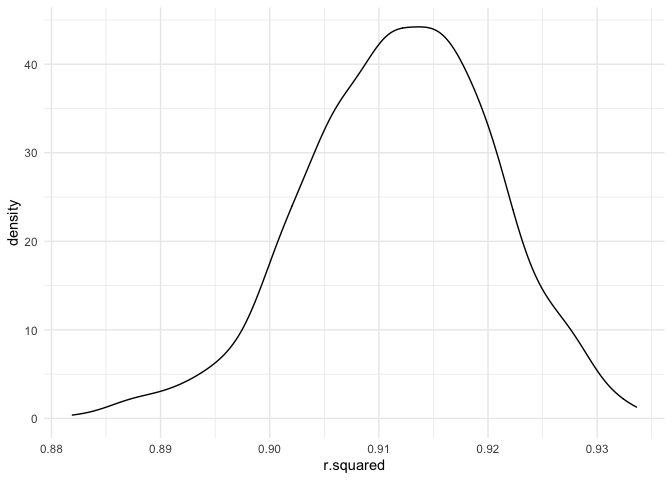
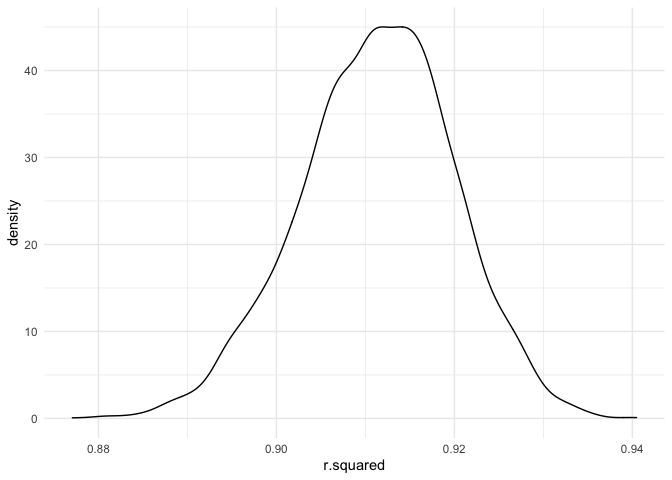
added quantiles, organized problem 2

diff --git a/p8105_hw6_kdh2140.md b/p8105_hw6_kdh2140.md
@@ -236,6 +236,9 @@ broom::tidy()
     ## 2 wtgain         11.7      0.679      17.2 2.84e-64
     ## 3 fincome         3.13     0.286      10.9 1.96e-27
 
+All models appear to have a significant relationship between predictors
+and outcome.
+
 #### Check residual plots
 
 ``` r
@@ -255,8 +258,8 @@ bwt_df %>%
 
 ![](p8105_hw6_kdh2140_files/figure-gfm/resid_bwt-2.png)<!-- -->
 
-With both predictors, residuals appear randomly scattered around the 0
-line.
+With both predictors for model 3 (wtgain, fincome), residuals appear
+randomly scattered around the 0 line.
 
 #### Cross validation
 
@@ -312,6 +315,10 @@ cv_df %>%
 
 ![](p8105_hw6_kdh2140_files/figure-gfm/unnamed-chunk-2-1.png)<!-- -->
 
+Graphically, model 2 (interaction model) appears to have the lowest
+average root mean square error of all three models, with model 1 only
+slightly higher and model 3 much higher.
+
 #### Calculate average RMSE
 
 ``` r
@@ -327,8 +334,6 @@ cv_df %>%
   summarize(avg_rmse = mean(rmse))
 ```
 
-    ## `summarise()` ungrouping output (override with `.groups` argument)
-
     ## # A tibble: 3 x 2
     ##   model avg_rmse
     ##   <chr>    <dbl>
@@ -336,7 +341,10 @@ cv_df %>%
     ## 2 fit2      289.
     ## 3 fit3      491.
 
-#### Extra code
+The above table reports average root mean squared error, which confirms
+the above interpretations.
+
+#### Visualizations
 
 ``` r
 bwt_df %>% 
@@ -347,8 +355,6 @@ ggplot(aes(x = wtgain, y = bwt)) +
               color = fincome))
 ```
 
-    ## `geom_smooth()` using formula 'y ~ x'
-
 ![](p8105_hw6_kdh2140_files/figure-gfm/unnamed-chunk-4-1.png)<!-- -->
 
 ``` r
@@ -358,22 +364,10 @@ ggplot(aes(x = fincome, y = bwt)) +
   geom_smooth(method = "lm")
 ```
 
-    ## `geom_smooth()` using formula 'y ~ x'
-
 ![](p8105_hw6_kdh2140_files/figure-gfm/unnamed-chunk-4-2.png)<!-- -->
 
-``` r
-bwt_df %>% 
-  add_predictions(fit) %>% 
-  ggplot(aes(x = wtgain, y = bwt)) + 
-  geom_point() +
-  geom_line(aes(y = pred), color = "blue")
-```
-
-model\_fit = lm(bwt \~ gaweeks, data = baby\_df)
-
-baby\_df %\>% modelr::add\_residuals(model\_fit) %\>% ggplot(aes(x =
-gaweeks, y = resid)) + geom\_point()
+The above plots depict changes in outcome by predictor for model 3
+(wtgain, fincome)
 
 ## Problem 3
 
@@ -393,63 +387,61 @@ weather_df =
   select(name, id, everything())
 ```
 
-#### R- squared
-
-NEED TO CHANGE TO 5000
+#### R- squared Bootstrap Distributions
 
 ``` r
-# Run the bootstrap to calculate mean r - square
-weather_df %>% 
-  bootstrap(1000, id = "strap_number") %>% 
+# Run the bootstrap to create r - squared dataframe
+boot_rsq = 
+  weather_df %>% 
+    bootstrap(5000, id = "strap_number") %>% 
+    
+    # Run the linear model across the bootstrap observations
+    mutate(
+      models = map(.x = strap, ~lm(tmax ~ tmin, data = .x)), 
+      results = map(models, broom::glance)) %>% 
+    
+    # Tidy data
+    select(strap_number, results) %>% 
+    unnest(results) %>% 
+    select(strap_number, r.squared) 
   
-  # Run the linear model across the bootstrap observations
-  mutate(
-    models = map(.x = strap, ~lm(tmax ~ tmin, data = .x)), 
-    results = map(models, broom::glance)) %>% 
-  
-  # Tidy data
-  select(strap_number, results) %>% 
-  unnest(results) %>% 
-  select(strap_number, r.squared) %>% 
-  
-  # Calculate average r-squared value for bootstrap observations
+
+# Calculate average r-squared value for bootstrap observations
+boot_rsq %>%   
   summarize(mean_r_square = mean(r.squared))
 ```
 
     ## # A tibble: 1 x 1
     ##   mean_r_square
     ##           <dbl>
-    ## 1         0.912
+    ## 1         0.911
 
-interpret
+The mean r squared value over 5000 bootstrap samples is equal to
+\~0.911. About 91.1% of the variance in the maximum temperature is
+explained by the minimum temperature in this linear regression.
 
 ``` r
-# Run the bootstrap to create r - squared plot
-weather_df %>% 
-  bootstrap(1000, id = "strap_number") %>% 
-  
-  # Run the linear model across the bootstrap observations
-  mutate(
-    models = map(.x = strap, ~lm(tmax ~ tmin, data = .x)), 
-    results = map(models, broom::glance)) %>% 
-  
-  # Tidy data
-  select(strap_number, results) %>% 
-  unnest(results) %>% 
-  select(strap_number, r.squared) %>% 
-  
-  # Create a distribution plot of r.squared values
+# Create a distribution plot of r.squared values
+boot_rsq %>% 
   ggplot(aes(x = r.squared)) +
   geom_density() 
 ```
 
-![](p8105_hw6_kdh2140_files/figure-gfm/unnamed-chunk-8-1.png)<!-- -->
+![](p8105_hw6_kdh2140_files/figure-gfm/unnamed-chunk-7-1.png)<!-- -->
 
 ``` r
-######identify the 2.5% and 97.5% quantiles to provide a 95% confidence interval 
+# Obtaining confidence intervals
+ci_lower_r = quantile(pull(boot_rsq, r.squared), 0.025)
+ci_upper_r = quantile(pull(boot_rsq, r.squared), 0.975)
 ```
 
-#### log(beta)
+The above plot depicts the distribution of r-squared values over 5000
+bootstrap samples.
+
+Quantile estimates for r-squared are 0.8936977 , 0.9274807. We are 95%
+confident that the true r-squared falls between \~89.37% and \~92.74%.
+
+#### Log(beta) Bootstrap Distributions
 
 ``` r
 ### Write a function to obtain log_beta value for each observation
@@ -479,20 +471,22 @@ obtain_log = function(df) {
 
 ### Run the bootstrap to calculate mean log_betas
 
-weather_df %>% 
-  bootstrap(1000, id = "strap_number") %>% 
-  
-  # Run the linear model across the bootstrap observations
-  mutate(
-    models = map(.x = strap, ~obtain_log(.x))) %>% 
-  
-  # Tidy data
-  select(strap_number, models) %>% 
-  unnest(models) %>% 
-  select(strap_number, log_betas) %>% 
-  
-  # Calculate average log_betas value for bootstrap observations
-  summarize(mean_log_betas = mean(log_betas))
+boot_log =
+  weather_df %>% 
+    bootstrap(5000, id = "strap_number") %>% 
+    
+    # Run the linear model across the bootstrap observations
+    mutate(
+      models = map(.x = strap, ~obtain_log(.x))) %>% 
+    
+    # Tidy data
+    select(strap_number, models) %>% 
+    unnest(models) %>% 
+    select(strap_number, log_betas) 
+
+# Calculate average log_betas value for bootstrap observations
+boot_log %>% 
+    summarize(mean_log_betas = mean(log_betas))
 ```
 
     ## # A tibble: 1 x 1
@@ -500,29 +494,26 @@ weather_df %>%
     ##            <dbl>
     ## 1           2.01
 
-interpret
+The average value of the log of beta\_0 by beta\_1 over 5000 bootstraps
+is roughly equal to 2.01.
 
 ``` r
-# Run the bootstrap to create log_beta plot
-weather_df %>% 
-  bootstrap(1000, id = "strap_number") %>% 
-  
-  # Run the linear model across the bootstrap observations
-  mutate(
-    models = map(.x = strap, ~obtain_log(.x))) %>% 
-  
-  # Tidy data
-  select(strap_number, models) %>% 
-  unnest(models) %>% 
-  select(strap_number, log_betas) %>% 
-  
-  # Create a distribution plot of r.squared values
+# Create a distribution plot of log_beta values
+boot_log %>% 
   ggplot(aes(x = log_betas)) +
   geom_density() 
 ```
 
-![](p8105_hw6_kdh2140_files/figure-gfm/unnamed-chunk-10-1.png)<!-- -->
+![](p8105_hw6_kdh2140_files/figure-gfm/unnamed-chunk-9-1.png)<!-- -->
 
 ``` r
-######identify the 2.5% and 97.5% quantiles to provide a 95% confidence interval 
+# Obtaining confidence intervals
+ci_lower_log = quantile(pull(boot_log, log_betas), 0.025)
+ci_upper_log = quantile(pull(boot_log, log_betas), 0.975)
 ```
+
+The above plot depicts the distribution of log(beta) values over 5000
+bootstrap samples.
+
+Quantile estimates for log(beta) are 1.9656328 , 2.0584694. We are 95%
+confident that the true log(beta) falls between \~1.97 and \~2.06.
